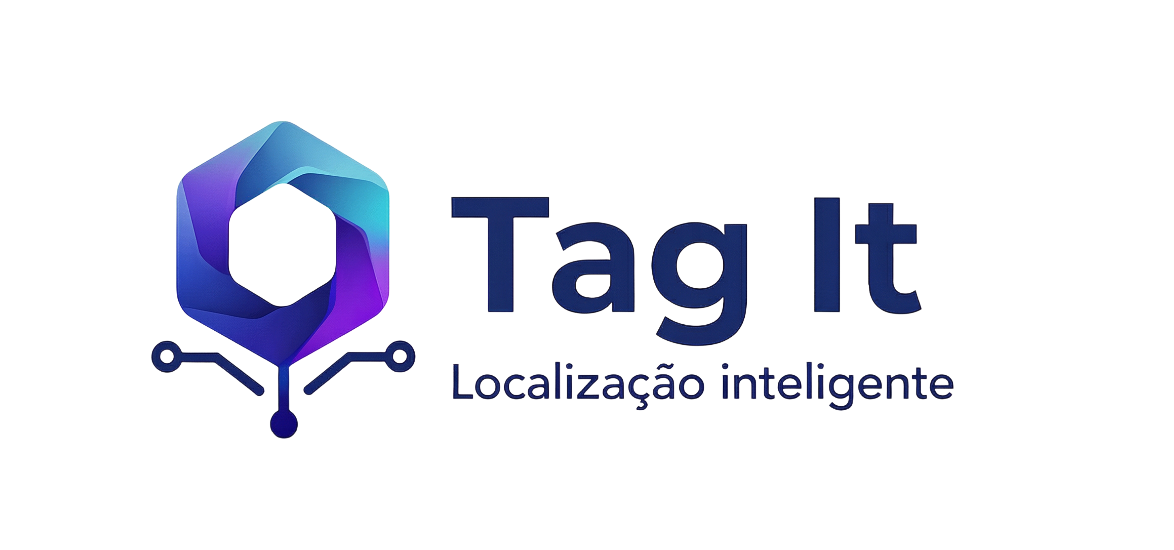
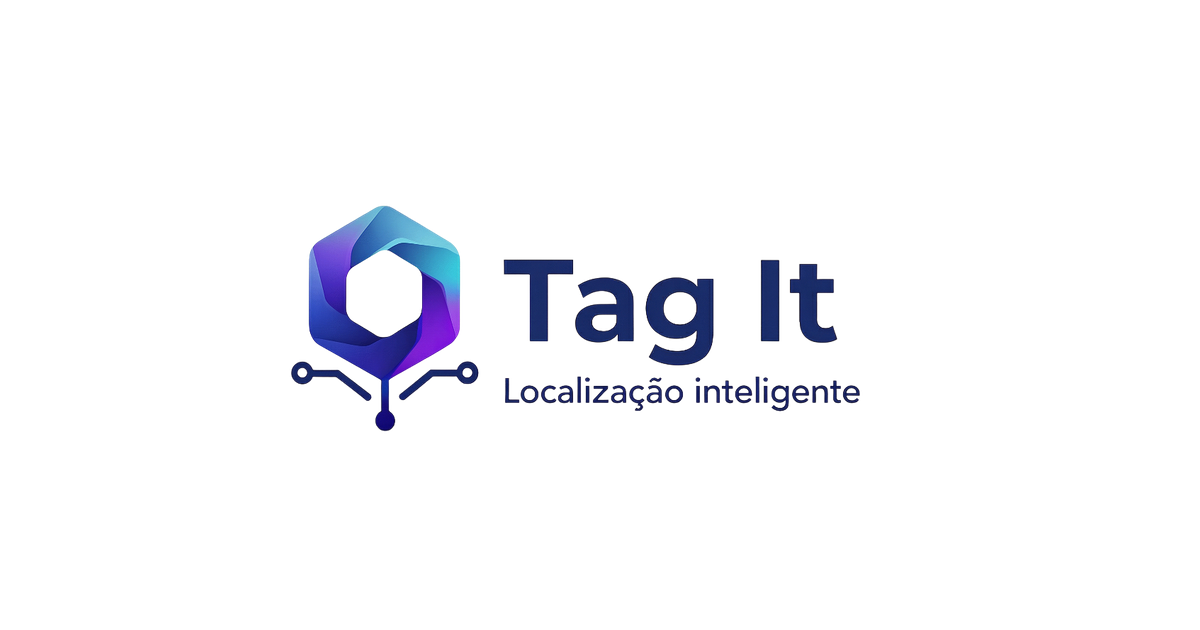
update image-og_zap

Changed region(s): [[0.1227, 0.2164, 0.8279, 0.8036]]

diff --git a/index.html b/index.html
@@ -41,8 +41,8 @@
     <meta property="og:image:secure_url" content="https://tagit.com.br/og-image.png" />
     <meta property="og:image:type" content="image/png" />
     <meta property="og:image:alt" content="Logo da Tag It - Localização Inteligente de Ativos" />
-    <meta property="og:image:width" content="1174" />
-    <meta property="og:image:height" content="550" />
+    <meta property="og:image:width" content="1200" />
+    <meta property="og:image:height" content="630" />
     <meta property="og:locale" content="pt_BR" />
     
     <!-- Twitter Card -->
